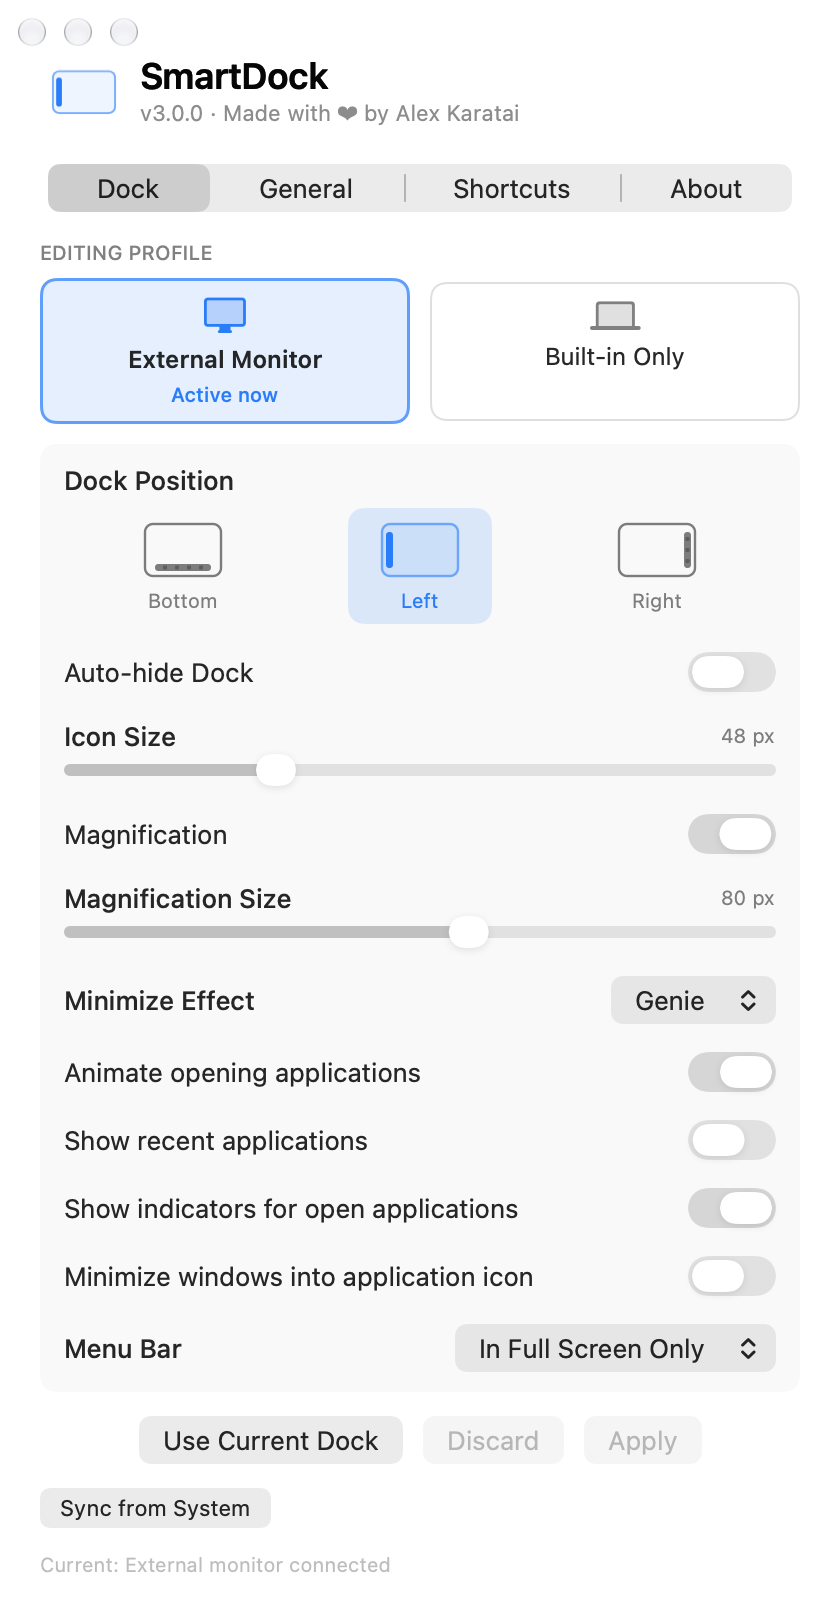
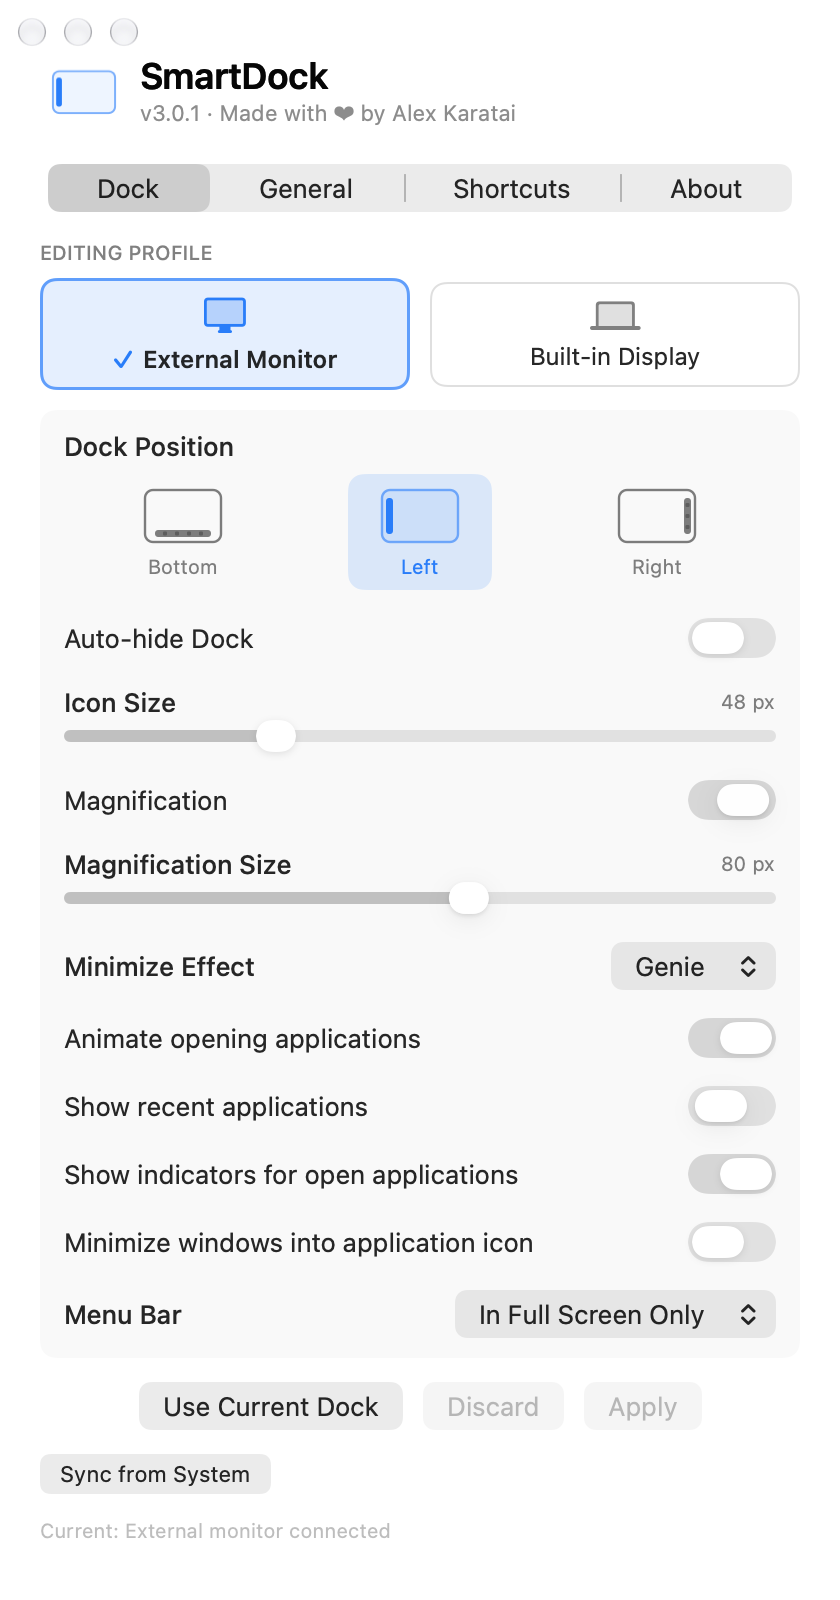
chore: Update version to 3.0.1 in changelog, README, Info.plist, and adjust settings image

diff --git a/README.md b/README.md
@@ -9,7 +9,7 @@
 </p>
 
 <p align="center">
-  <img src="https://img.shields.io/badge/version-3.0.0-blue?style=flat-square" alt="Version 3.0.0"/>
+  <img src="https://img.shields.io/badge/version-3.0.1-blue?style=flat-square" alt="Version 3.0.1"/>
   <img src="https://img.shields.io/badge/macOS-14.0%2B-000000?style=flat-square&logo=apple&logoColor=white" alt="macOS 14+"/>
   <img src="https://img.shields.io/badge/Apple%20silicon-arm64-000000?style=flat-square&logo=apple&logoColor=white" alt="Apple silicon (arm64)"/>
   <img src="https://img.shields.io/badge/Swift-6.2-F05138?style=flat-square&logo=swift&logoColor=white" alt="Swift 6.2"/>

diff --git a/CHANGELOG.md b/CHANGELOG.md
@@ -7,6 +7,8 @@ and this project adheres to [Semantic Versioning](https://semver.org/spec/v2.0.0
 
 ## [Unreleased]
 
+## [3.0.1] — 2026-10-22
+
 ### Added
 
 - CI now compiles the project on Xcode 27 as well as on Xcode 26.6. The toolchain that
